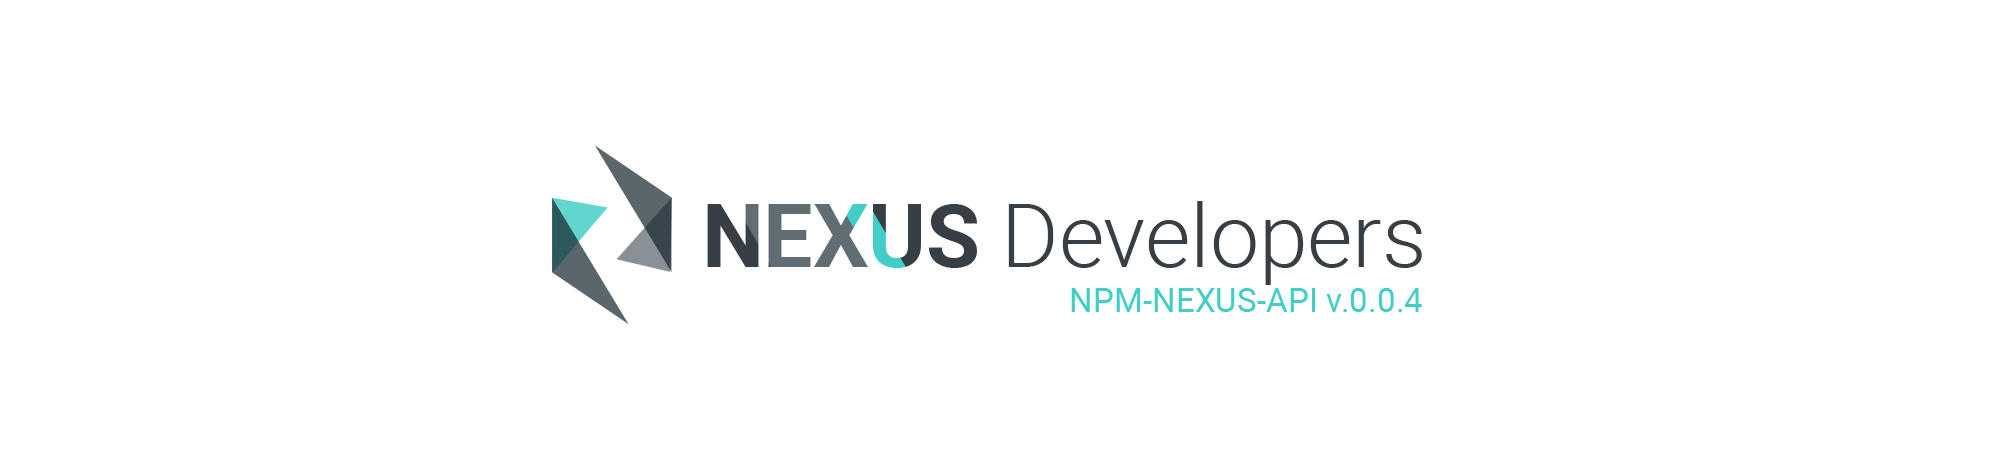
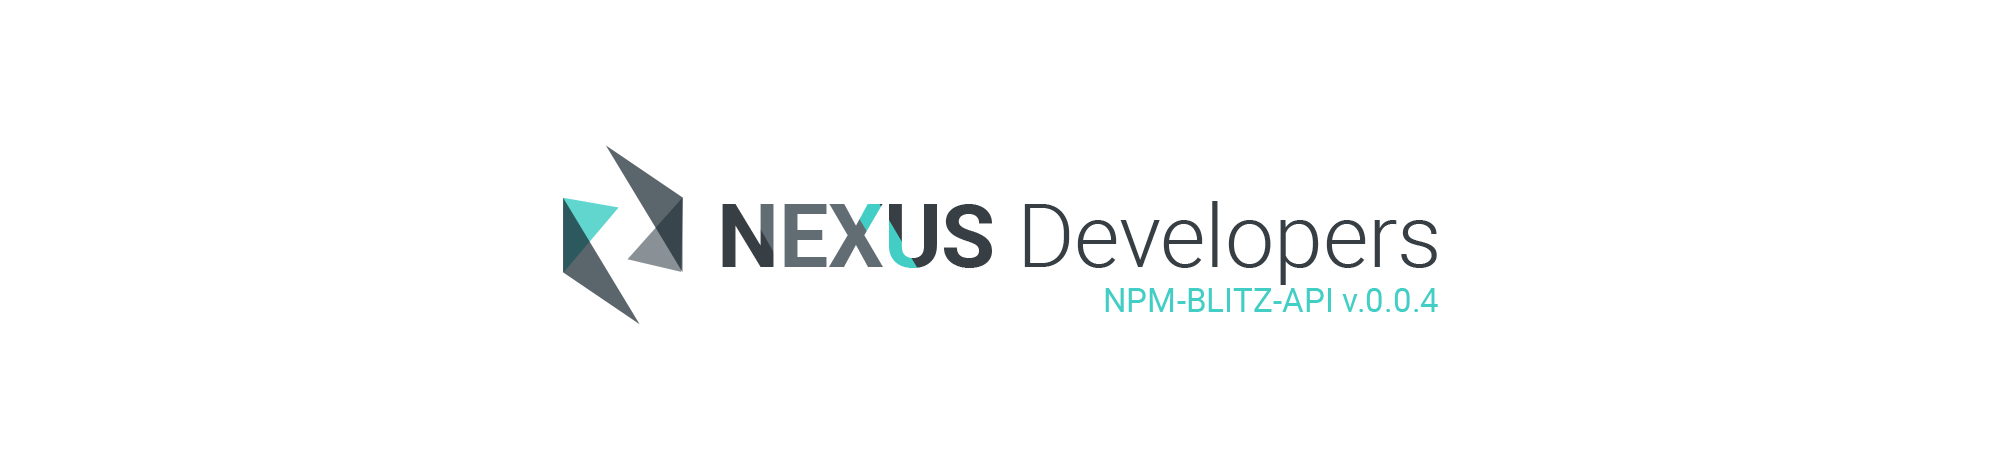
Update Readme

Changed region(s): [[0.279, 0.3355, 0.744, 0.7015], [0.31, 0.671, 0.341, 0.7015]]

diff --git a/README.md b/README.md
@@ -3,7 +3,6 @@
 - - - -
 <br>
 
-**Still in early development.**
-This will only work with the current development nexus-stats stack.<br>
+Nodejs package to connect to [blitz.js](https://github.com/nexus-devs/blitz.js) frameworks.<br>
 - - - -
 <br>
